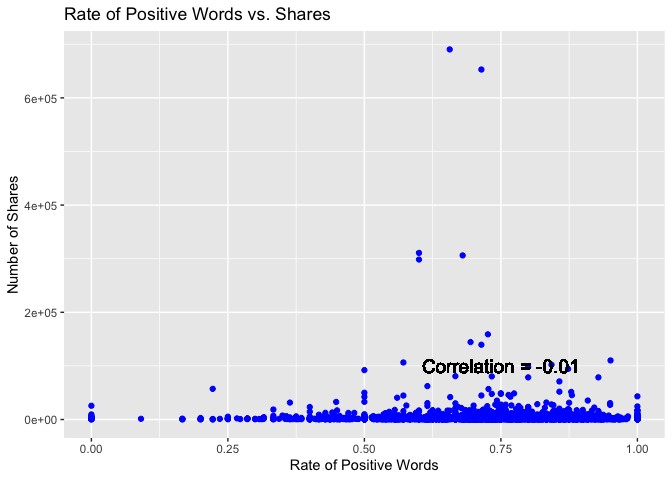
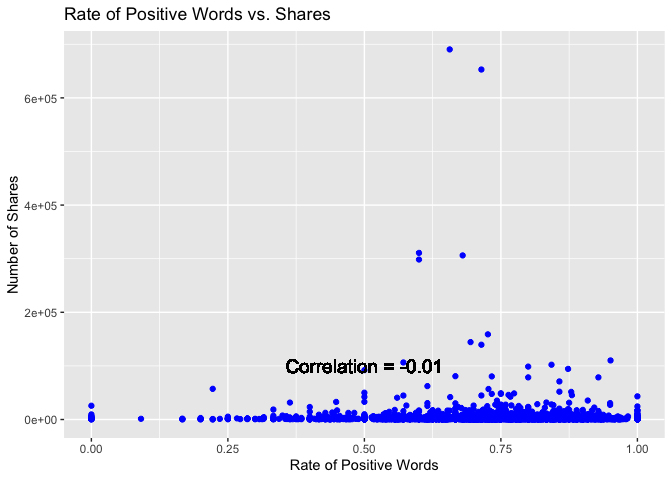
Updated changes

Changed region(s): [[0.4062, 0.75, 0.875, 0.7812]]

diff --git a/Reports/Social Media.md b/Reports/Social Media.md
@@ -201,7 +201,7 @@ ggplot(onlineNews, aes(n_tokens_title, shares)) +
             label = paste0("Correlation =", round(titleCorrelation, 3)))
 ```
 
-![](../Reports/Social%20Media_files/figure-gfm/unnamed-chunk-7-1.png)<!-- -->
+![](Reports/Social%20Media_files/figure-gfm/unnamed-chunk-7-1.png)<!-- -->
 
 ``` r
 # Histogram of total shares for the data channel. Mean and median vertical lines have been
@@ -219,7 +219,7 @@ ggplot(onlineNews, aes(x=shares)) +
   geom_vline(aes(xintercept = mean), colour="red")
 ```
 
-![](../Reports/Social%20Media_files/figure-gfm/unnamed-chunk-7-2.png)<!-- -->
+![](Reports/Social%20Media_files/figure-gfm/unnamed-chunk-7-2.png)<!-- -->
 
 ``` r
 # Barplot of Total Shares vs. Day of the Week. This barplot shows the trend in
@@ -232,7 +232,7 @@ ggplot(tableTotal, aes(x=Day, y = Total_Shares)) +
   ggtitle("Total Shares by Day of the Week") 
 ```
 
-![](../Reports/Social%20Media_files/figure-gfm/unnamed-chunk-7-3.png)<!-- -->
+![](Reports/Social%20Media_files/figure-gfm/unnamed-chunk-7-3.png)<!-- -->
 
 ``` r
 # Summary statistics for the number of words in the content.
@@ -308,13 +308,13 @@ xpred2 <- onlineNews %>% select(num_keywords, global_subjectivity, rate_positive
 ggpairs(xpred, title = "Correlogram with ggpairs")
 ```
 
-![](../Reports/Social%20Media_files/figure-gfm/unnamed-chunk-15-1.png)<!-- -->
+![](Reports/Social%20Media_files/figure-gfm/unnamed-chunk-15-1.png)<!-- -->
 
 ``` r
 ggpairs(xpred2, title = "Correlogram with ggpairs")
 ```
 
-![](../Reports/Social%20Media_files/figure-gfm/unnamed-chunk-15-2.png)<!-- -->
+![](Reports/Social%20Media_files/figure-gfm/unnamed-chunk-15-2.png)<!-- -->
 
 ``` r
 # The following scatterplot shows the trend of shares as a function of the number of links in the content.  An upward trend in the points indicates that articles with more links are shared more often.  A downward trend would indicate that articles with more links are shared less often.  If there is neither an upward or downward trend this indicates that the number of links in the article has no effect on whether the article will be shared.
@@ -323,7 +323,7 @@ g <- ggplot(onlineNews, aes(x = num_hrefs, y = shares)) + labs(y ="Number of Sha
 g + geom_point(col = "purple") + ggtitle("Number of Links vs. Shares") + geom_text(x = 50, y = 30000, size = 5, label = paste0("Correlation = ", round(correlation, 2)))
 ```
 
-![](../Reports/Social%20Media_files/figure-gfm/unnamed-chunk-16-1.png)<!-- -->
+![](Reports/Social%20Media_files/figure-gfm/unnamed-chunk-16-1.png)<!-- -->
 
 ``` r
 # The following scatterplot shows the relationship between the rate of positive words in the articles and the number of shares.  If the plots are on an upward trajectory then articles with more positive words are shared the most.  If the plots are on a downward trend then the articles with the most positive words are shared the least.
@@ -332,7 +332,7 @@ g <- ggplot(onlineNews, aes(x = rate_positive_words, y = shares)) + labs(y ="Num
 g + geom_point(col = "blue") + ggtitle("Rate of Positive Words vs. Shares") + geom_text(x = 0.5, y = 100000, size = 5, label = paste0("Correlation = ", round(correlationTwo, 2)))
 ```
 
-![](../Reports/Social%20Media_files/figure-gfm/unnamed-chunk-17-1.png)<!-- -->
+![](Reports/Social%20Media_files/figure-gfm/unnamed-chunk-17-1.png)<!-- -->
 
 ## Modeling
 

diff --git a/Reports/Entertainment.md b/Reports/Entertainment.md
@@ -201,7 +201,7 @@ ggplot(onlineNews, aes(n_tokens_title, shares)) +
             label = paste0("Correlation =", round(titleCorrelation, 3)))
 ```
 
-![](../Reports/Entertainment_files/figure-gfm/unnamed-chunk-7-1.png)<!-- -->
+![](Reports/Entertainment_files/figure-gfm/unnamed-chunk-7-1.png)<!-- -->
 
 ``` r
 # Histogram of total shares for the data channel. Mean and median vertical lines have been
@@ -219,7 +219,7 @@ ggplot(onlineNews, aes(x=shares)) +
   geom_vline(aes(xintercept = mean), colour="red")
 ```
 
-![](../Reports/Entertainment_files/figure-gfm/unnamed-chunk-7-2.png)<!-- -->
+![](Reports/Entertainment_files/figure-gfm/unnamed-chunk-7-2.png)<!-- -->
 
 ``` r
 # Barplot of Total Shares vs. Day of the Week. This barplot shows the trend in
@@ -232,7 +232,7 @@ ggplot(tableTotal, aes(x=Day, y = Total_Shares)) +
   ggtitle("Total Shares by Day of the Week") 
 ```
 
-![](../Reports/Entertainment_files/figure-gfm/unnamed-chunk-7-3.png)<!-- -->
+![](Reports/Entertainment_files/figure-gfm/unnamed-chunk-7-3.png)<!-- -->
 
 ``` r
 # Summary statistics for the number of words in the content.
@@ -308,13 +308,13 @@ xpred2 <- onlineNews %>% select(num_keywords, global_subjectivity, rate_positive
 ggpairs(xpred, title = "Correlogram with ggpairs")
 ```
 
-![](../Reports/Entertainment_files/figure-gfm/unnamed-chunk-15-1.png)<!-- -->
+![](Reports/Entertainment_files/figure-gfm/unnamed-chunk-15-1.png)<!-- -->
 
 ``` r
 ggpairs(xpred2, title = "Correlogram with ggpairs")
 ```
 
-![](../Reports/Entertainment_files/figure-gfm/unnamed-chunk-15-2.png)<!-- -->
+![](Reports/Entertainment_files/figure-gfm/unnamed-chunk-15-2.png)<!-- -->
 
 ``` r
 # The following scatterplot shows the trend of shares as a function of the number of links in the content.  An upward trend in the points indicates that articles with more links are shared more often.  A downward trend would indicate that articles with more links are shared less often.  If there is neither an upward or downward trend this indicates that the number of links in the article has no effect on whether the article will be shared.
@@ -323,7 +323,7 @@ g <- ggplot(onlineNews, aes(x = num_hrefs, y = shares)) + labs(y ="Number of Sha
 g + geom_point(col = "purple") + ggtitle("Number of Links vs. Shares") + geom_text(x = 50, y = 30000, size = 5, label = paste0("Correlation = ", round(correlation, 2)))
 ```
 
-![](../Reports/Entertainment_files/figure-gfm/unnamed-chunk-16-1.png)<!-- -->
+![](Reports/Entertainment_files/figure-gfm/unnamed-chunk-16-1.png)<!-- -->
 
 ``` r
 # The following scatterplot shows the relationship between the rate of positive words in the articles and the number of shares.  If the plots are on an upward trajectory then articles with more positive words are shared the most.  If the plots are on a downward trend then the articles with the most positive words are shared the least.
@@ -332,7 +332,7 @@ g <- ggplot(onlineNews, aes(x = rate_positive_words, y = shares)) + labs(y ="Num
 g + geom_point(col = "blue") + ggtitle("Rate of Positive Words vs. Shares") + geom_text(x = 0.5, y = 100000, size = 5, label = paste0("Correlation = ", round(correlationTwo, 2)))
 ```
 
-![](../Reports/Entertainment_files/figure-gfm/unnamed-chunk-17-1.png)<!-- -->
+![](Reports/Entertainment_files/figure-gfm/unnamed-chunk-17-1.png)<!-- -->
 
 ## Modeling
 

diff --git a/Reports/Lifestyle.md b/Reports/Lifestyle.md
@@ -201,7 +201,7 @@ ggplot(onlineNews, aes(n_tokens_title, shares)) +
             label = paste0("Correlation =", round(titleCorrelation, 3)))
 ```
 
-![](../Reports/Lifestyle_files/figure-gfm/unnamed-chunk-7-1.png)<!-- -->
+![](Reports/Lifestyle_files/figure-gfm/unnamed-chunk-7-1.png)<!-- -->
 
 ``` r
 # Histogram of total shares for the data channel. Mean and median vertical lines have been
@@ -219,7 +219,7 @@ ggplot(onlineNews, aes(x=shares)) +
   geom_vline(aes(xintercept = mean), colour="red")
 ```
 
-![](../Reports/Lifestyle_files/figure-gfm/unnamed-chunk-7-2.png)<!-- -->
+![](Reports/Lifestyle_files/figure-gfm/unnamed-chunk-7-2.png)<!-- -->
 
 ``` r
 # Barplot of Total Shares vs. Day of the Week. This barplot shows the trend in
@@ -232,7 +232,7 @@ ggplot(tableTotal, aes(x=Day, y = Total_Shares)) +
   ggtitle("Total Shares by Day of the Week") 
 ```
 
-![](../Reports/Lifestyle_files/figure-gfm/unnamed-chunk-7-3.png)<!-- -->
+![](Reports/Lifestyle_files/figure-gfm/unnamed-chunk-7-3.png)<!-- -->
 
 ``` r
 # Summary statistics for the number of words in the content.
@@ -308,13 +308,13 @@ xpred2 <- onlineNews %>% select(num_keywords, global_subjectivity, rate_positive
 ggpairs(xpred, title = "Correlogram with ggpairs")
 ```
 
-![](../Reports/Lifestyle_files/figure-gfm/unnamed-chunk-15-1.png)<!-- -->
+![](Reports/Lifestyle_files/figure-gfm/unnamed-chunk-15-1.png)<!-- -->
 
 ``` r
 ggpairs(xpred2, title = "Correlogram with ggpairs")
 ```
 
-![](../Reports/Lifestyle_files/figure-gfm/unnamed-chunk-15-2.png)<!-- -->
+![](Reports/Lifestyle_files/figure-gfm/unnamed-chunk-15-2.png)<!-- -->
 
 ``` r
 # The following scatterplot shows the trend of shares as a function of the number of links in the content.  An upward trend in the points indicates that articles with more links are shared more often.  A downward trend would indicate that articles with more links are shared less often.  If there is neither an upward or downward trend this indicates that the number of links in the article has no effect on whether the article will be shared.
@@ -323,7 +323,7 @@ g <- ggplot(onlineNews, aes(x = num_hrefs, y = shares)) + labs(y ="Number of Sha
 g + geom_point(col = "purple") + ggtitle("Number of Links vs. Shares") + geom_text(x = 50, y = 30000, size = 5, label = paste0("Correlation = ", round(correlation, 2)))
 ```
 
-![](../Reports/Lifestyle_files/figure-gfm/unnamed-chunk-16-1.png)<!-- -->
+![](Reports/Lifestyle_files/figure-gfm/unnamed-chunk-16-1.png)<!-- -->
 
 ``` r
 # The following scatterplot shows the relationship between the rate of positive words in the articles and the number of shares.  If the plots are on an upward trajectory then articles with more positive words are shared the most.  If the plots are on a downward trend then the articles with the most positive words are shared the least.
@@ -332,7 +332,7 @@ g <- ggplot(onlineNews, aes(x = rate_positive_words, y = shares)) + labs(y ="Num
 g + geom_point(col = "blue") + ggtitle("Rate of Positive Words vs. Shares") + geom_text(x = 0.5, y = 100000, size = 5, label = paste0("Correlation = ", round(correlationTwo, 2)))
 ```
 
-![](../Reports/Lifestyle_files/figure-gfm/unnamed-chunk-17-1.png)<!-- -->
+![](Reports/Lifestyle_files/figure-gfm/unnamed-chunk-17-1.png)<!-- -->
 
 ## Modeling
 

diff --git a/Reports/Business.md b/Reports/Business.md
@@ -201,7 +201,7 @@ ggplot(onlineNews, aes(n_tokens_title, shares)) +
             label = paste0("Correlation =", round(titleCorrelation, 3)))
 ```
 
-![](../Reports/Business_files/figure-gfm/unnamed-chunk-7-1.png)<!-- -->
+![](Reports/Business_files/figure-gfm/unnamed-chunk-7-1.png)<!-- -->
 
 ``` r
 # Histogram of total shares for the data channel. Mean and median vertical lines have been
@@ -219,7 +219,7 @@ ggplot(onlineNews, aes(x=shares)) +
   geom_vline(aes(xintercept = mean), colour="red")
 ```
 
-![](../Reports/Business_files/figure-gfm/unnamed-chunk-7-2.png)<!-- -->
+![](Reports/Business_files/figure-gfm/unnamed-chunk-7-2.png)<!-- -->
 
 ``` r
 # Barplot of Total Shares vs. Day of the Week. This barplot shows the trend in
@@ -232,7 +232,7 @@ ggplot(tableTotal, aes(x=Day, y = Total_Shares)) +
   ggtitle("Total Shares by Day of the Week") 
 ```
 
-![](../Reports/Business_files/figure-gfm/unnamed-chunk-7-3.png)<!-- -->
+![](Reports/Business_files/figure-gfm/unnamed-chunk-7-3.png)<!-- -->
 
 ``` r
 # Summary statistics for the number of words in the content.
@@ -308,13 +308,13 @@ xpred2 <- onlineNews %>% select(num_keywords, global_subjectivity, rate_positive
 ggpairs(xpred, title = "Correlogram with ggpairs")
 ```
 
-![](../Reports/Business_files/figure-gfm/unnamed-chunk-15-1.png)<!-- -->
+![](Reports/Business_files/figure-gfm/unnamed-chunk-15-1.png)<!-- -->
 
 ``` r
 ggpairs(xpred2, title = "Correlogram with ggpairs")
 ```
 
-![](../Reports/Business_files/figure-gfm/unnamed-chunk-15-2.png)<!-- -->
+![](Reports/Business_files/figure-gfm/unnamed-chunk-15-2.png)<!-- -->
 
 ``` r
 # The following scatterplot shows the trend of shares as a function of the number of links in the content.  An upward trend in the points indicates that articles with more links are shared more often.  A downward trend would indicate that articles with more links are shared less often.  If there is neither an upward or downward trend this indicates that the number of links in the article has no effect on whether the article will be shared.
@@ -323,7 +323,7 @@ g <- ggplot(onlineNews, aes(x = num_hrefs, y = shares)) + labs(y ="Number of Sha
 g + geom_point(col = "purple") + ggtitle("Number of Links vs. Shares") + geom_text(x = 50, y = 30000, size = 5, label = paste0("Correlation = ", round(correlation, 2)))
 ```
 
-![](../Reports/Business_files/figure-gfm/unnamed-chunk-16-1.png)<!-- -->
+![](Reports/Business_files/figure-gfm/unnamed-chunk-16-1.png)<!-- -->
 
 ``` r
 # The following scatterplot shows the relationship between the rate of positive words in the articles and the number of shares.  If the plots are on an upward trajectory then articles with more positive words are shared the most.  If the plots are on a downward trend then the articles with the most positive words are shared the least.
@@ -332,7 +332,7 @@ g <- ggplot(onlineNews, aes(x = rate_positive_words, y = shares)) + labs(y ="Num
 g + geom_point(col = "blue") + ggtitle("Rate of Positive Words vs. Shares") + geom_text(x = 0.5, y = 100000, size = 5, label = paste0("Correlation = ", round(correlationTwo, 2)))
 ```
 
-![](../Reports/Business_files/figure-gfm/unnamed-chunk-17-1.png)<!-- -->
+![](Reports/Business_files/figure-gfm/unnamed-chunk-17-1.png)<!-- -->
 
 ## Modeling
 

diff --git a/Reports/World.md b/Reports/World.md
@@ -201,7 +201,7 @@ ggplot(onlineNews, aes(n_tokens_title, shares)) +
             label = paste0("Correlation =", round(titleCorrelation, 3)))
 ```
 
-![](../Reports/World_files/figure-gfm/unnamed-chunk-7-1.png)<!-- -->
+![](Reports/World_files/figure-gfm/unnamed-chunk-7-1.png)<!-- -->
 
 ``` r
 # Histogram of total shares for the data channel. Mean and median vertical lines have been
@@ -219,7 +219,7 @@ ggplot(onlineNews, aes(x=shares)) +
   geom_vline(aes(xintercept = mean), colour="red")
 ```
 
-![](../Reports/World_files/figure-gfm/unnamed-chunk-7-2.png)<!-- -->
+![](Reports/World_files/figure-gfm/unnamed-chunk-7-2.png)<!-- -->
 
 ``` r
 # Barplot of Total Shares vs. Day of the Week. This barplot shows the trend in
@@ -232,7 +232,7 @@ ggplot(tableTotal, aes(x=Day, y = Total_Shares)) +
   ggtitle("Total Shares by Day of the Week") 
 ```
 
-![](../Reports/World_files/figure-gfm/unnamed-chunk-7-3.png)<!-- -->
+![](Reports/World_files/figure-gfm/unnamed-chunk-7-3.png)<!-- -->
 
 ``` r
 # Summary statistics for the number of words in the content.
@@ -308,13 +308,13 @@ xpred2 <- onlineNews %>% select(num_keywords, global_subjectivity, rate_positive
 ggpairs(xpred, title = "Correlogram with ggpairs")
 ```
 
-![](../Reports/World_files/figure-gfm/unnamed-chunk-15-1.png)<!-- -->
+![](Reports/World_files/figure-gfm/unnamed-chunk-15-1.png)<!-- -->
 
 ``` r
 ggpairs(xpred2, title = "Correlogram with ggpairs")
 ```
 
-![](../Reports/World_files/figure-gfm/unnamed-chunk-15-2.png)<!-- -->
+![](Reports/World_files/figure-gfm/unnamed-chunk-15-2.png)<!-- -->
 
 ``` r
 # The following scatterplot shows the trend of shares as a function of the number of links in the content.  An upward trend in the points indicates that articles with more links are shared more often.  A downward trend would indicate that articles with more links are shared less often.  If there is neither an upward or downward trend this indicates that the number of links in the article has no effect on whether the article will be shared.
@@ -323,7 +323,7 @@ g <- ggplot(onlineNews, aes(x = num_hrefs, y = shares)) + labs(y ="Number of Sha
 g + geom_point(col = "purple") + ggtitle("Number of Links vs. Shares") + geom_text(x = 50, y = 30000, size = 5, label = paste0("Correlation = ", round(correlation, 2)))
 ```
 
-![](../Reports/World_files/figure-gfm/unnamed-chunk-16-1.png)<!-- -->
+![](Reports/World_files/figure-gfm/unnamed-chunk-16-1.png)<!-- -->
 
 ``` r
 # The following scatterplot shows the relationship between the rate of positive words in the articles and the number of shares.  If the plots are on an upward trajectory then articles with more positive words are shared the most.  If the plots are on a downward trend then the articles with the most positive words are shared the least.
@@ -332,7 +332,7 @@ g <- ggplot(onlineNews, aes(x = rate_positive_words, y = shares)) + labs(y ="Num
 g + geom_point(col = "blue") + ggtitle("Rate of Positive Words vs. Shares") + geom_text(x = 0.5, y = 100000, size = 5, label = paste0("Correlation = ", round(correlationTwo, 2)))
 ```
 
-![](../Reports/World_files/figure-gfm/unnamed-chunk-17-1.png)<!-- -->
+![](Reports/World_files/figure-gfm/unnamed-chunk-17-1.png)<!-- -->
 
 ## Modeling
 

diff --git a/Reports/Tech.md b/Reports/Tech.md
@@ -201,7 +201,7 @@ ggplot(onlineNews, aes(n_tokens_title, shares)) +
             label = paste0("Correlation =", round(titleCorrelation, 3)))
 ```
 
-![](../Reports/Tech_files/figure-gfm/unnamed-chunk-7-1.png)<!-- -->
+![](Reports/Tech_files/figure-gfm/unnamed-chunk-7-1.png)<!-- -->
 
 ``` r
 # Histogram of total shares for the data channel. Mean and median vertical lines have been
@@ -219,7 +219,7 @@ ggplot(onlineNews, aes(x=shares)) +
   geom_vline(aes(xintercept = mean), colour="red")
 ```
 
-![](../Reports/Tech_files/figure-gfm/unnamed-chunk-7-2.png)<!-- -->
+![](Reports/Tech_files/figure-gfm/unnamed-chunk-7-2.png)<!-- -->
 
 ``` r
 # Barplot of Total Shares vs. Day of the Week. This barplot shows the trend in
@@ -232,7 +232,7 @@ ggplot(tableTotal, aes(x=Day, y = Total_Shares)) +
   ggtitle("Total Shares by Day of the Week") 
 ```
 
-![](../Reports/Tech_files/figure-gfm/unnamed-chunk-7-3.png)<!-- -->
+![](Reports/Tech_files/figure-gfm/unnamed-chunk-7-3.png)<!-- -->
 
 ``` r
 # Summary statistics for the number of words in the content.
@@ -308,13 +308,13 @@ xpred2 <- onlineNews %>% select(num_keywords, global_subjectivity, rate_positive
 ggpairs(xpred, title = "Correlogram with ggpairs")
 ```
 
-![](../Reports/Tech_files/figure-gfm/unnamed-chunk-15-1.png)<!-- -->
+![](Reports/Tech_files/figure-gfm/unnamed-chunk-15-1.png)<!-- -->
 
 ``` r
 ggpairs(xpred2, title = "Correlogram with ggpairs")
 ```
 
-![](../Reports/Tech_files/figure-gfm/unnamed-chunk-15-2.png)<!-- -->
+![](Reports/Tech_files/figure-gfm/unnamed-chunk-15-2.png)<!-- -->
 
 ``` r
 # The following scatterplot shows the trend of shares as a function of the number of links in the content.  An upward trend in the points indicates that articles with more links are shared more often.  A downward trend would indicate that articles with more links are shared less often.  If there is neither an upward or downward trend this indicates that the number of links in the article has no effect on whether the article will be shared.
@@ -323,7 +323,7 @@ g <- ggplot(onlineNews, aes(x = num_hrefs, y = shares)) + labs(y ="Number of Sha
 g + geom_point(col = "purple") + ggtitle("Number of Links vs. Shares") + geom_text(x = 50, y = 30000, size = 5, label = paste0("Correlation = ", round(correlation, 2)))
 ```
 
-![](../Reports/Tech_files/figure-gfm/unnamed-chunk-16-1.png)<!-- -->
+![](Reports/Tech_files/figure-gfm/unnamed-chunk-16-1.png)<!-- -->
 
 ``` r
 # The following scatterplot shows the relationship between the rate of positive words in the articles and the number of shares.  If the plots are on an upward trajectory then articles with more positive words are shared the most.  If the plots are on a downward trend then the articles with the most positive words are shared the least.
@@ -332,7 +332,7 @@ g <- ggplot(onlineNews, aes(x = rate_positive_words, y = shares)) + labs(y ="Num
 g + geom_point(col = "blue") + ggtitle("Rate of Positive Words vs. Shares") + geom_text(x = 0.5, y = 100000, size = 5, label = paste0("Correlation = ", round(correlationTwo, 2)))
 ```
 
-![](../Reports/Tech_files/figure-gfm/unnamed-chunk-17-1.png)<!-- -->
+![](Reports/Tech_files/figure-gfm/unnamed-chunk-17-1.png)<!-- -->
 
 ## Modeling
 
